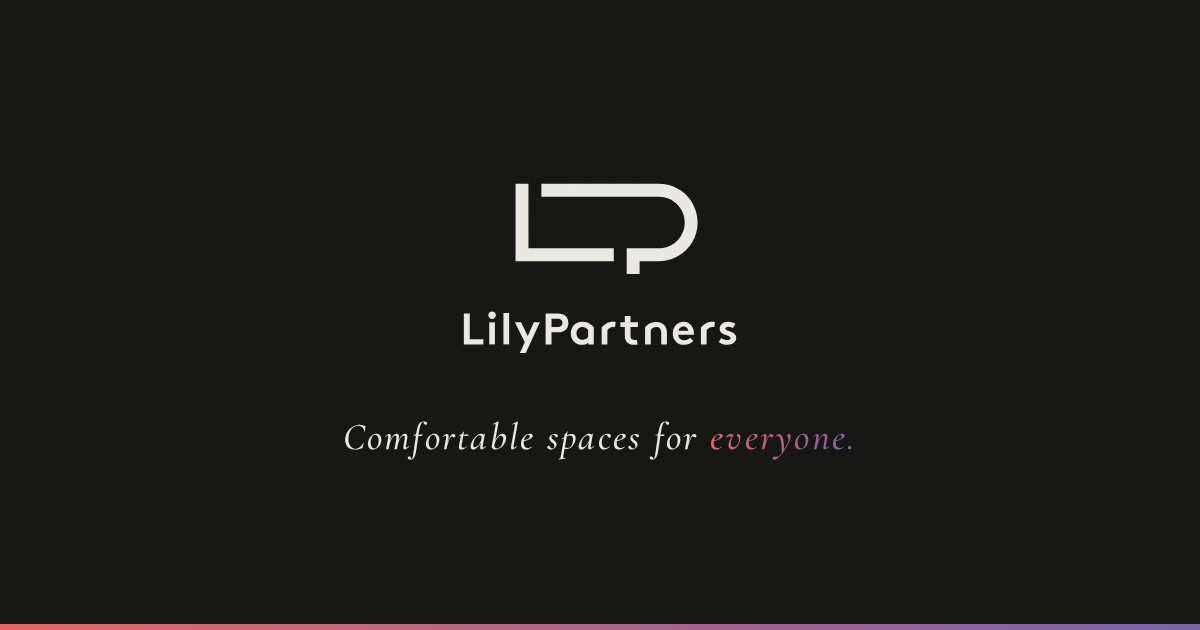
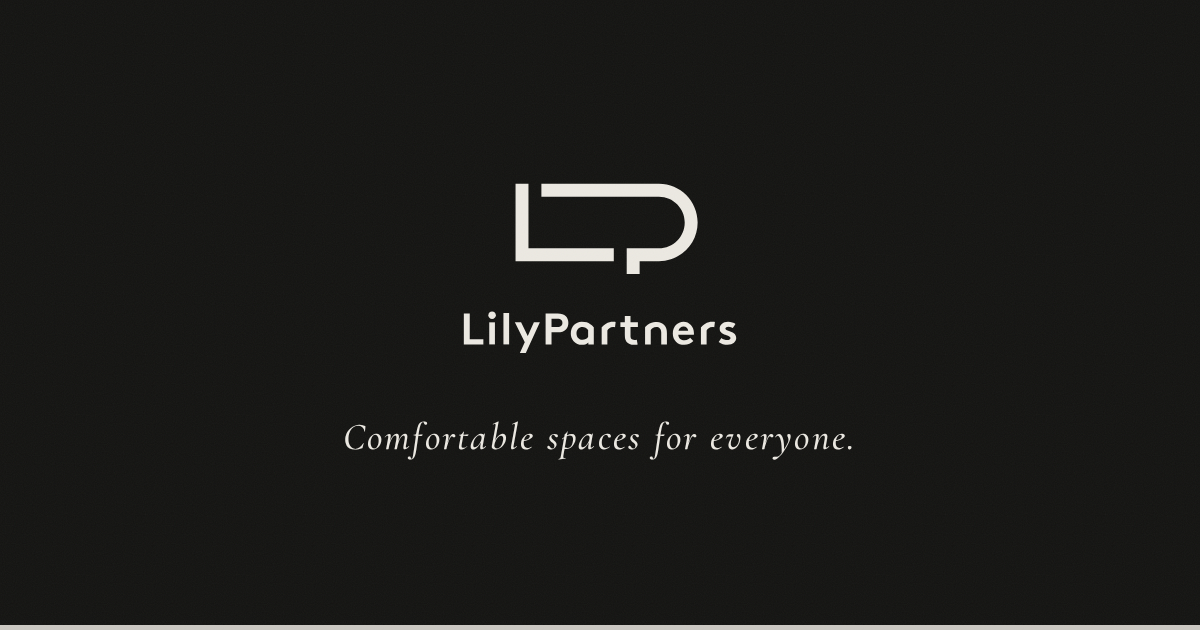
Monochrome site accents, purple only for OFFICEMILL

Changed region(s): [[0.0, 0.9651, 1.0, 1.0], [0.5858, 0.6937, 0.7092, 0.7238]]

diff --git a/index.html b/index.html
@@ -67,7 +67,7 @@
   --bg2:#1a1a17;
   --ink:#ece9e2;
   --mut:#8f8b81;
-  --acc:#e08e91;
+  --acc:#ece9e2;
   --grad-a:#EB6365;
   --grad-b:#7561A9;
   --line:rgba(236,233,226,.13);
@@ -92,12 +92,12 @@ body::after{
 .loader-logo{opacity:0;color:var(--ink)}
 .loader-logo svg{display:block;width:clamp(150px,18vw,210px);height:auto;aspect-ratio:304.9/199.9}
 .loader-line{width:120px;height:1px;background:var(--line);position:relative;overflow:hidden}
-.loader-line::after{content:"";position:absolute;inset:0;background:linear-gradient(90deg,var(--grad-a),var(--grad-b));transform:scaleX(0);transform-origin:left;animation:load 1.4s cubic-bezier(.65,0,.35,1) forwards}
+.loader-line::after{content:"";position:absolute;inset:0;background:var(--ink);transform:scaleX(0);transform-origin:left;animation:load 1.4s cubic-bezier(.65,0,.35,1) forwards}
 @keyframes load{to{transform:scaleX(1)}}
 
 /* ---------- progress ---------- */
 .progress{position:fixed;top:0;left:0;height:2px;width:100%;z-index:60}
-.progress span{display:block;height:100%;background:linear-gradient(90deg,var(--grad-a),var(--grad-b));transform-origin:left;transform:scaleX(0)}
+.progress span{display:block;height:100%;background:var(--ink);transform-origin:left;transform:scaleX(0)}
 
 /* ---------- nav ---------- */
 nav{position:fixed;top:0;left:0;right:0;z-index:50;display:flex;align-items:center;justify-content:space-between;padding:26px clamp(20px,4.5vw,64px);transition:background .5s,padding .5s}
@@ -124,7 +124,7 @@ footer .logo svg{height:17px;aspect-ratio:426.3/63.5}
 }
 .hero-label{font-size:11.5px;letter-spacing:.34em;color:var(--acc);margin-bottom:36px;opacity:0}
 .hero h1{font-family:var(--serif);font-weight:500;font-size:clamp(46px,6.4vw,92px);line-height:1.12;letter-spacing:.01em}
-.hero h1 em,.h2 em{font-style:italic;background:linear-gradient(100deg,var(--grad-a),var(--grad-b));-webkit-background-clip:text;background-clip:text;-webkit-text-fill-color:transparent;color:var(--grad-a)}
+.hero h1 em,.h2 em{font-style:italic;color:var(--ink)}
 .hero h1 .line{display:block;overflow:hidden}
 .hero h1 .line span{display:block;transform:translateY(110%)}
 .hero-sub{margin-top:40px;font-size:13.5px;line-height:2.4;color:var(--mut);font-weight:300;max-width:420px;opacity:0}
@@ -161,8 +161,10 @@ section{padding:17vh clamp(20px,4.5vw,64px)}
 .vision .h2{margin-bottom:40px}
 .vision .lead-en{margin-bottom:28px;opacity:0;transform:translateY(24px)}
 
-/* ---------- service ---------- */
+/* ---------- service (OFFICEMILL brand colors) ---------- */
 .service{background:var(--bg2)}
+.service .tag em,.service .h2 em,.svc-domain{background:linear-gradient(100deg,var(--grad-a),var(--grad-b));-webkit-background-clip:text;background-clip:text;-webkit-text-fill-color:transparent;color:var(--grad-a)}
+.service .tag i{background:linear-gradient(90deg,var(--grad-a),var(--grad-b))}
 .svc-head{display:flex;flex-wrap:wrap;align-items:flex-end;justify-content:space-between;gap:24px;margin-bottom:7vh}
 .svc-card{display:grid;grid-template-columns:1.15fr .85fr;border:1px solid var(--line);background:var(--bg);overflow:hidden}
 @media(max-width:860px){.svc-card{grid-template-columns:1fr}}
@@ -172,7 +174,7 @@ section{padding:17vh clamp(20px,4.5vw,64px)}
 .svc-body{padding:clamp(28px,4vw,60px);display:flex;flex-direction:column;justify-content:center}
 .svc-name{margin-bottom:14px}
 .svc-name img{display:block;width:clamp(200px,24vw,320px);height:auto;object-fit:contain}
-.svc-domain{font-family:var(--serif);font-style:italic;font-size:15px;letter-spacing:.14em;color:var(--acc);margin-bottom:30px}
+.svc-domain{font-family:var(--serif);font-style:italic;font-size:15px;letter-spacing:.14em;margin-bottom:30px}
 .svc-en{font-family:var(--serif);font-size:clamp(17px,1.8vw,21px);line-height:1.7;margin-bottom:20px}
 .svc-desc{font-size:13px;line-height:2.4;color:var(--mut);font-weight:300;margin-bottom:36px}
 .svc-badges{display:flex;gap:10px;flex-wrap:wrap;margin-bottom:42px}
